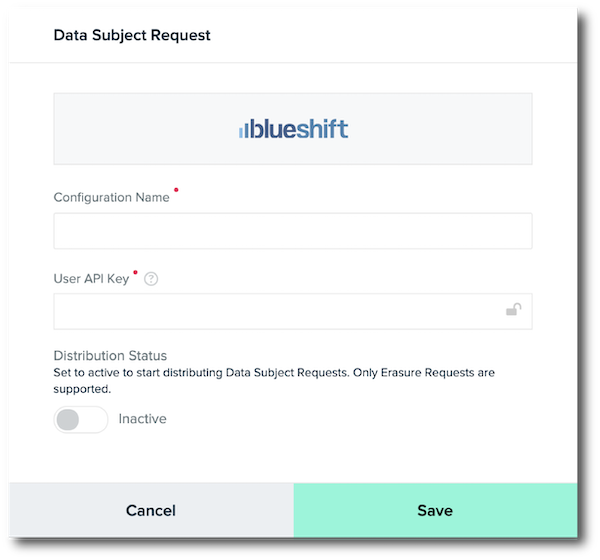
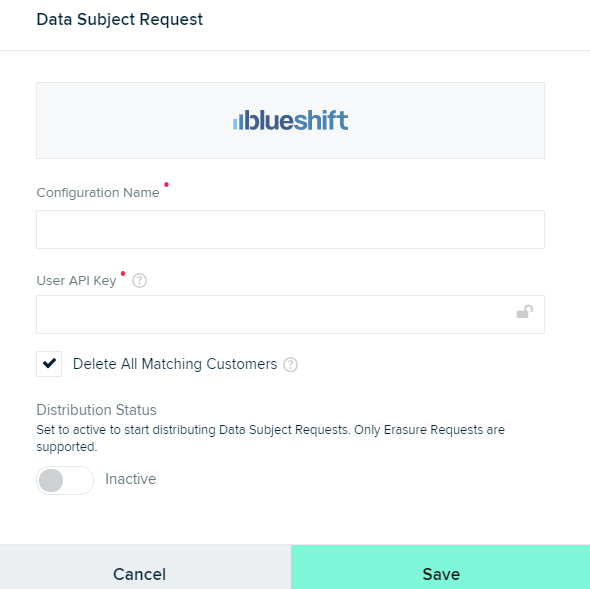
DSR distro - tweaks (#1530)
* Update index.md

* Update index.md

* Update index.md

* Update index.md

* Update src/pages/developers/dsr-api/index.md

* Update src/pages/guides/data-subject-requests/distribution/index.md

* Update src/pages/guides/data-subject-requests/distribution/index.md

* Update src/pages/guides/data-subject-requests/distribution/index.md

* Update index.md

* Update src/pages/developers/dsr-api/index.md

* Update index.md

* Update index.md

* fix blueshift link

* blueshift - new setting

added info on new Delete All Matching Customers setting

* updated status values

* updated with  Andres

* reviewed with Andrew

* fixed code formatting

* Updated DSR dialog image

* Minor fixes to spacing.

diff --git a/src/pages/guides/data-subject-requests/distribution/index.md b/src/pages/guides/data-subject-requests/distribution/index.md
@@ -2,21 +2,21 @@
 title: DSR Distributions for Erasure
 ---
 
-You can configure mParticle to distribute Data Subject Requests (DSRs) for erasure to a number of supported partners. Once forwarded, mParticle can't guarantee that data is deleted from your outputs, so confirm that each partner fulfills the request.
+You can configure mParticle to distribute Data Subject Requests (DSRs) for erasure to a number of supported partners. Once forwarded, mParticle can't guarantee that data is deleted by the partner, so confirm that each partner fulfills the request.
 
 | **Note:** Data subject request (DSR) distribution is available in limited access. |
 |---|
 
 # Supported Partners
 
-You can distribute DSRs for erasure in outputs to the following partners:
+You can distribute DSRs for erasure to the following partners.  Click on the partner name to get details of their erasure APIs.:
 
-| Partner | Supported IDs | Distribution Frequency | Details |
-| :------ | :------------ | :--------------------- | :------ |
-| Kochava | IDFA (iOS Advertising ID) and ADID (Android Advertising ID) | Once an hour or every 10,000 messages| [Learn more about partner's user-data deletion processing](https://support.kochava.com/reference-information/kochava-privacy-request/) 
-| Blueshift | email | Immediate | [Learn more about partner's user-data deletion processing](https://developer.blueshift.com/reference#post_api-v1-customers-delete) |
+| Partner | Supported IDs | Distribution Frequency | 
+| :------ | :------------ | :--------------------- | 
+| [Kochava](https://support.kochava.com/reference-information/kochava-privacy-request/) | IDFA (iOS Advertising ID) and ADID (Android Advertising ID) | Once an hour or every 10,000 messages|
+| [Blueshift](https://developer.blueshift.com/reference/post_api-v1-customers-delete) | customer_id, email | Immediate |
 
-For outputs currently not supported, work with each partner separately to manage user data deletion.
+For partners currently not supported, work with each partner separately to manage user data deletion.
 
 # Create a DSR Distribution
 
@@ -31,7 +31,7 @@ To create a DSR distribution:
 
 Collect the partner's credential information to use in the next step:
 
-* For Blueshift, copy [the Users API key](https://developer.blueshift.com/reference#authorization-1). You must be a Blueshift admin user to see this information.
+* For Blueshift, copy [the Users API key](https://developer.blueshift.com/reference#authorization-1). You must be a Blueshift admin user to see this information.  Enable `Delete All Matching Customers` if you want to delete all matching profiles of a user in Blueshift.
 
 * For Kochava, obtain [the Kochava Account ID](https://support.kochava.com/reference-information/kochava-privacy-request/) and [App GUID](https://support.kochava.com/reference-information/locating-an-app-guid/) from your Kochava app. 
   
@@ -39,9 +39,9 @@ If you can't find the information, contact your partner account representative.
 
 ## Create and Activate the DSR Distribution
 
-1. From your mParticle workspace, open **Setup > Output**.
-2. Click **Add Data Subject Request Output**.
-3. Choose an output partner.
+1. From your mParticle workspace, open **Setup > Outputs** and select the **Data Subject Requests** tab.
+2. Click **Add Data Subject Request**.
+3. Choose a partner.
 4. In the Data Subject Request dialog, add a **Configuration Name** and the access credential values you obtained in the previous section.
 5. When you are ready, set **Distribution Status** to **Active**.
 6. Select **I understand** after reading the DSR Distribution disclaimer.
@@ -50,10 +50,10 @@ If you can't find the information, contact your partner account representative.
 
 ## Submit DSR Distributions
 
-After the DSR distribution is configured, use either the mParticle user interface or APIs to submit DSR distributions.
+After the DSR distribution is configured, use either the mParticle user interface or API to submit DSR distributions.
 
-* [Instructions for the user interface](https://docs.mparticle.com/guides/data-subject-requests/#erasure)
-* [Instructions for the API](https://docs.mparticle.com/developers/dsr-api/#submit-a-data-subject-request-dsr)
+* [Instructions for the user interface](/guides/data-subject-requests/#erasure)
+* [Instructions for the API](/developers/dsr-api/#submit-a-data-subject-request-dsr)
 
 <!-- TODO: Change two links above to indirect references before publishing as exposed in left nav. -->
 
@@ -64,15 +64,16 @@ Before you submit a DSR distribution, consider the following:
 * To avoid profile resolution complexities and subsequent conflation of user data deletion downstream, only a single profile will be resolved. All other identities known for the resolved user profile will be enriched onto the user deletion message sent downstream.
 * When using the API or user interface, only a single identity of the same identity type is allowed when DSR distribution has been enabled. For example, a single customer ID, email address, IDFA. You can send in multiple identities of different types such as Customer ID and email address. See [API error messages](#api-error-messages) for ID validation rules.
 * To distribute DSR deletion for multiple user profiles, send one erasure request per user profile.
-* mParticle forwards erasure requests on receipt of the request. The general processing time specified in [the General Request Workflow](https://docs.mparticle.com/guides/data-subject-requests/#general-request-workflow) only applies to the mParticle fulfillment processing and does not apply to DSR distribution. 
+* mParticle forwards erasure requests on receipt of the request. The general processing time specified in [General Request Workflow](/guides/data-subject-requests/#general-request-workflow) only applies to the mParticle fulfillment processing and does not apply to DSR distribution. 
+* Once forwarded, mParticle cannot guarantee that data is deleted by the partner. You can confirm with the partner that the request has been fulfilled.
 
 ### Check Distribution Status
 
-To check distribution status per partner, use the [`GET /requests/{RequestID}`](https://docs.mparticle.com/developers/dsr-api#get-the-status-of-an-opendsr-request) resource. The status reported is for distribution and does not indicate fulfillment status from the partner.
+To check distribution status per partner, use the [`GET /requests/{RequestID}`](/developers/dsr-api#get-the-status-of-an-opendsr-request) resource. The status reported is for distribution and does not indicate fulfillment status from the partner.
 
 Example Response Body
 
-```
+~~~http
 {
     "controller_id": "3707",
     "expected_completion_time": "2021-09-13T00:00:00",
@@ -87,73 +88,61 @@ Example Response Body
                 {
                     "domain": "kochava.com",
                     "name": "Kochava DSR Federation",
-                    "status": "in_progress",
+                    "status": "pending",
                     "status_message": null
                 },
                 {
                     "domain": "blueshift.com",
                     "name": "Blueshift DSR Federation",
-                    "status": "in_progress",
+                    "status": "sent",
                     "status_message": null
                 }
             ]
         }
     }
 }
-```
-
-## Verify Partner Fulfillment
-
-Once forwarded, mParticle cannot guarantee that data is deleted from your outputs. Always confirm that each partner fulfills the request.
-
-### Blueshift
-You can search for a particular user under customers> Attributes from the global left navigation. Before you delete the user, that should appear in the search result. Once you delete the user, that user will not appear in the search.
-
-If you are looking to automate the testing, you can leverage Blueshift's [search endpoint.](https://developer.blueshift.com/reference#get_api-v1-customers)
-
-<!-- TODO: How do they do this? -->
+~~~
 
 ## DSR Distribution Status Definitions
 
-### Blueshift
+The `status_message` contains additional details for `skipped` and `failed` status.
 
-| Status | Status Message | Description |
-| :--- | :--- | :--- |
-| `in_progress` |  |  |
-| `skipped` | `No matching identities available.` | Request was not forwarded to Blueshift due to missing data. |
-| `failed` | `Received an 'Unauthorized' response from Blueshift. Check the API key specified in your Blueshift configuration` | While attempting to send a request to Blueshift, an error occurred.   |
-| `completed` | `Upload completed successfully` | The request has been forwarded to Blueshift  |
-
-### Kochava
-
-| Status | Status Message | Description |
-| :--- | :--- | :--- |
-| `in_progress` |   | The request has been queued for forwarding.  |
-| `skipped` | `No matching identities available. KochavaForwarder only supports Google Advertising ID, iOS Advertising ID.` | Request was not forwarded to Blueshift due to missing data. |
-| `failed` |  `Received a 'BadRequest' response from Kochava. The request cannot be retried.`  | While attempting to send a request to Kochava, an error occurred. 
-| `completed` | `Upload completed successfully` | The request has been forwarded to Kochava.  |
-
+| Status | Description |
+| :--- | :--- |
+| `pending` | The request has been queued for forwarding. |
+| `skipped` | Request was not forwarded due to missing identities. |
+| `sent` | The request has been forwarded. |
+| `failed` | The request could not be sent, possible reasons are invalid credentials, partner API errors.  |
 
 ## API Error Messages
 
-API error messages related to ID validation rules:
+If you have enabled DSR distributions, additional identity validation is performed which may result in an HTTP 400 status code response, with details contained in the `message`.
 
-More than one `mpid` is provided:
+1. More than one `mpid` is provided.
+2. More than one identity of the same type is provided in the subject identities.
+3. More than one identity of the same type is provided in the extensions.
+4. An `mpid` is provided and additional identities are present.
+5. The same identity type is provided in subject identities and in the extensions.
 
-   ```Only one mpid per request is allowed when request distribution is enabled. Please check the 'mpids' collection in the extensions.```
+### Example Response Body
 
-More than one identity of the same type is provided in the subject identities:
+~~~http
+{
+    "code": 400,
+    "message": "Only one mpid per request is allowed when request distribution is enabled. Please check the 'mpids' collection in the extensions.",
+    "errors": [
+        {
+            "domain": "Validation",
+            "reason": "InvalidOperationException",
+            "message": "Only one mpid per request is allowed when request distribution is enabled. Please check the 'mpids' collection in the extensions."
+        }
+    ]
+}
+~~~
 
-   ```Only one identity per identity type is allowed when request distribution is enabled. Please check the 'subject_identities' collection.```
+| Field Name| Data Type	| Description |
+| --- | ---	| --- |
+| `code` | integer | HTTP status code
+| `message` | string | Detailed validation message 
+| `errors` | collection | A collection of validation errors containing a domain, reason and message. |
 
-More than one identity of the same type is provided in the extensions:
-
-   ```Only one identity per identity type is allowed when request distribution is enabled. Please check the 'identities' collection in the extensions.```
-
-An `mpid` is provided and additional identities are present:
-
-   ```If an mpid is provided, it must be the only identity in the request when distribution is enabled.```
-
-The same identity type is provided in subject identities and in the extensions:
-
-   ```Only one identity per identity type is allowed when request distribution is enabled. Please check the 'subject_identities' collection and 'identities' collection in the extensions.```

diff --git a/src/pages/developers/dsr-api/index.md b/src/pages/developers/dsr-api/index.md
@@ -81,32 +81,41 @@ Content-Type: application/json
 Authorization: Basic <your-token-here>
 
 {
- "regulation": "gdpr",
- "subject_request_id":"a7551968-d5d6-44b2-9831-815ac9017798",
- "subject_request_type":"erasure",
- "submitted_time":"2018-10-02T15:00:00Z",
- "subject_identities":[
-   {
-      "identity_type":"email",
-      "identity_value":"johndoe@example.com",
-      "identity_format":"raw"
-   }
- ],
- "api_version":"2.0",
- "status_callback_urls":[
-   "https://exampleurl.com/opendsr/callbacks"
- ],
-  "extensions": {
-    "opendsr.mparticle.com": {
-      "mpids": [1234567890, 5678901234],
-      "identities": [
+    "regulation": "gdpr",
+    "subject_request_id": "a7551968-d5d6-44b2-9831-815ac9017798",
+    "subject_request_type": "erasure",
+    "submitted_time": "2018-10-02T15:00:00Z",
+    "subject_identities":
+    [
         {
-          "identity_type": "other1",
-          "identity_value": "test@test1.com"
+            "identity_type": "email",
+            "identity_value": "johndoe@example.com",
+            "identity_format": "raw"
         }
-      ]
+    ],
+    "api_version": "2.0",
+    "status_callback_urls":
+    [
+        "https://exampleurl.com/opendsr/callbacks"
+    ],
+    "extensions":
+    {
+        "opendsr.mparticle.com":
+        {
+            "mpids":
+            [
+                1234567890,
+                5678901234
+            ],
+            "identities":
+            [
+                {
+                    "identity_type": "other1",
+                    "identity_value": "test@test1.com"
+                }
+            ]
+        }
     }
-  } 
 }
 ~~~
 
@@ -177,11 +186,11 @@ waCrLx7WV5y9TMDCf+2FILOJM/MwTUy1dLZiaFHhGdzld2AjbjK1CfVzyPssch0iQYYtbR49GhumvkYl
[1 lines of base64/hex data omitted]
 KD/4Axmo9DISib5/7A6uczJxQG2Bcrdj++vQqK2succ=
 {
-"expected_completion_time":"2018-11-01T15:00:01Z",
-"received_time":"2018 10 02T15:00:01Z",
-"encoded_request":"<BASE64 ENCODED REQUEST>"
-"subject_request_id":"a7551968-d5d6-44b2-9831-815ac9017798",
-"controller_id": "3622"
+    "expected_completion_time":"2018-11-01T15:00:01Z",
+    "received_time":"2018 10 02T15:00:01Z",
+    "encoded_request":"<BASE64 ENCODED REQUEST>",
+    "subject_request_id":"a7551968-d5d6-44b2-9831-815ac9017798",
+    "controller_id": "3622"
 }
 ~~~
 
@@ -194,9 +203,11 @@ KD/4Axmo9DISib5/7A6uczJxQG2Bcrdj++vQqK2succ=
     "controller_id": "3622",
     "expected_completion_time": "2018-05-07T20:53:48.322652",
     "subject_request_id": "a7551968-d5d6-44b2-9831-815ac9017798",
+    "group_id": null,
     "request_status": "pending",
     "api_version": "2.0",
-    "results_url": null
+    "results_url": null,
+    "extensions": null    
 }
 ~~~
 
@@ -205,9 +216,44 @@ KD/4Axmo9DISib5/7A6uczJxQG2Bcrdj++vQqK2succ=
 | `controller_id` | string | A unique ID representing the data controller.  |
 | `expected_completion_time` | ISO 8601 date string | The time at which the request is expected to be completed. |
 | `subject_request_id` | UUID v4 string | The controller-provided identifier of the request in a GUID v4 format. |
+| `group_id` | string  | The group_id can be used to relate different subject requests together. | 
 | `request_status` | string | The status of the request. Possible values are `pending`, `in_progress`, `completed` and `cancelled`. |
 | `api_version` | string | The API version for this request. The current version is "2.0". |
-|  `results_url` | string | For Access/Portability requests, a download link to the request results data. This will be `null` unless the request is complete. Once a request is completed, the `results_url` will be valid for 7 days. After that time, attempting to access this URL will result in a `410 Gone` HTTP response. |
+| `results_url` | string | For Access/Portability requests, a download link to the request results data. This field contains `null` unless the request is complete. After a request completes, the `results_url` is valid for 7 days. After that time, attempting to access this URL results in a `410 Gone` HTTP response. |
+| `extensions` | array |  Extensions related to DSR Distribution.
+
+### Get the status of all OpenDSR requests in a Group
+`GET /requests?group_id={my-group}`
+
+#### Example Response Body
+
+The response is a collection of DSR subject requests tha match the group_id.
+
+~~~http
+[
+  {
+    "controller_id": "3622",
+    "expected_completion_time": "2021-09-07T10:00:00.322652",
+    "subject_request_id": "a7551968-d5d6-44b2-9831-815ac9017798",
+    "group_id": "my-group",
+    "request_status": "pending",
+    "api_version": "2.0",
+    "results_url": null,
+    "extensions": null
+  },
+  {
+    "controller_id": "3622",
+    "expected_completion_time": "2021-09-06T10:15:00.259842",
+    "subject_request_id": "cab0a1fc-cfcd-475a-a2a5-e93eb060332f",
+    "group_id": "my-group",
+    "request_status": "pending",
+    "api_version": "2.0",
+    "results_url": null,
+    "extensions": null
+  }
+]
+~~~
+
 
 ### Cancel a request
 `DELETE /requests/{RequestID}`
@@ -335,6 +381,26 @@ P7f3LwgHVcDt8/26hziIGx56oVWGonkt6od7AY1VQBLsnIeh0K/z55GDmlrB7rbfd05RGUqqgjw4tekA
 
 ## Errors
 
-Status Code  | Retriable  | Description
----  | ---  | ---
-409  | No  | There is an in progress request with the same identities and extensions and its status is pending. Please do not retry the request.
+The following errors may be returned by the API with additonal details as shown.  
+
+~~~http
+{
+    "code": 400,
+    "message": "Subject request already exists.",
+    "errors": [
+        {
+            "domain": "Validation",
+            "reason": "InvalidOperationException",
+            "message": "Subject request already exists."
+        }
+    ]
+}
+~~~
+
+
+Status Code | Retriable | Message
+---  | --- | ---
+400  | No  | Invalid data was detected
+400  | No  | Subject request already exists
+401  | No  | The credentials provided in the request are not valid.  Check the credentials used to [authenticate.](#authentication).
+409  | No  | There is an in progress request with the same identities, extensions and type.  
